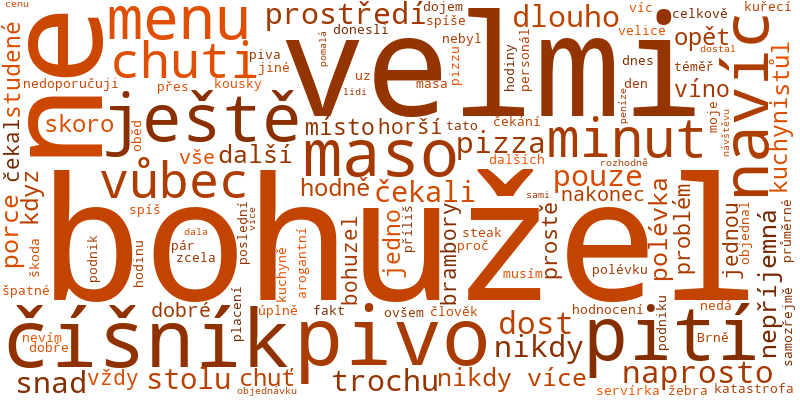
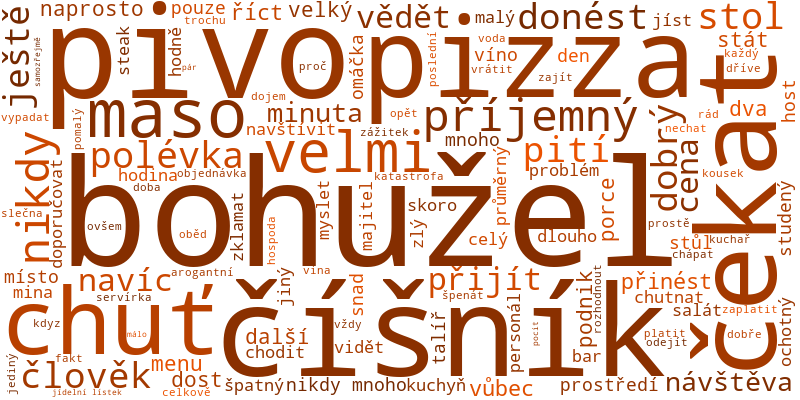
added wordclouds for presentations

diff --git a/wordcloud_nltk.py b/wordcloud_nltk.py
@@ -39,7 +39,7 @@ prepositions = ["od","ke","z","s","do","bez","krom","kromě","podle","okolo","ve
 conjunctions = ["a", "i", "ani", "nebo", "či", "přímo", "nadto", "ani", "jak", "tak", "hned", "jednak", "zčásti", "dílem", "ale", "avšak", "však", "leč", "nýbrž", "naopak", "jenomže", "jenže", "sice", "jistě", "ale", "i", "ba", "ba i", "ba ani", "nadto", "dokonce", "nejen", "nebo", "anebo", "buď", "totiž", "vždyť", "neboť", "vždyť", "totiž", "však", "také", "proto", "a proto", "a tak", "tudíž", "a tudíž", "tedy"]
 pronouns = ["já", "ty", "on", "ona", "ono", "my", "vy", "oni", "ony", "ona","se", "můj", "tvůj", "jeho", "její", "náš", "váš", "svůj", "ten", "tento", "tenhle", "onen", "takový", "týž", "tentýž", "sám", "kdo", "co", "jaký", "který","čí", "jenž", "nikdo", "nic", "nijaký", "ničí", "žádný", "někdo", "nějaký", "některý", "lecco", "něčí", "něco"]
 verbs = ["být","bejt","jsem","sme","jsi","je","jest","jsme","jste","jsou","budu","budeš","bude","budeme","budete","budou","buď","budiž","buďme","buďmež","buďte","buďtež","byl","byla","bylo","byli","byly","jsa","jsouc","jsouce","byv","byvše","byvši","bych","bychom","nebyla","nebylo","nam","vás","vas","chtěli","chteli","dali","bys","byste","by", "seš", "mám","máš","má","máme","máte","mají","měj","mějme","mějte","měl","měla","mělo","měli","měly","maje","majíc","majíce"]
-another_specific = ["jít","muset","jeden","druhý","moct","opravdu","všechen","mít","moc","dostat","dal","chtít","dát","si","cca","dne","jen","mi","mě","tady","tomu","že","to","nám","ná","takže","jako","už","pokud","asi","celkem","docela","tam","ze","ve","ji","ta","pak","taky","což","tím","již","možná","která","toho","protože","sem","kde","která","které","tu","než","když","Kč","při","až","ho","této","mne","aby","tuto","tom","No","kdy","jejich","jinak","zde","kterou","toto","ní","nás","mu","dostali","objednali","jím","myslím","jim","Já","Jen","námi","mě","me","Na","Po","není",")","(",".",",",":","!","...","-","?"]
+another_specific = ["jít","přes","muset","jeden","druhý","moct","opravdu","všechen","mít","moc","dostat","dal","chtít","dát","si","cca","dne","jen","mi","mě","tady","tomu","že","to","nám","ná","takže","jako","už","pokud","asi","celkem","docela","tam","ze","ve","ji","ta","pak","taky","což","tím","již","možná","která","toho","protože","sem","kde","která","které","tu","než","když","Kč","při","až","ho","této","mne","aby","tuto","tom","No","kdy","jejich","jinak","zde","kterou","toto","ní","nás","mu","dostali","objednali","jím","myslím","jim","Já","Jen","námi","mě","me","Na","Po","není",")","(",".",",",":","!","...","-","?"]
 text_specific_stopwords = ["jídlo","jídla","jidlo","jidla","jídel","jídlu","obsluha","obsluhy","obsluhu","restaurace","restauraci","objednat"]
 
 #STOPWORDS WITHOUT DIACRITICS LOWERCASE
@@ -75,13 +75,13 @@ def wordcloud_to_file(list_of_text,file):
     reviews_dict = {"review" : list_of_text}
     df = pd.DataFrame(reviews_dict)
     text = " ".join(review for review in df.review) #recenze
-    wordcloud = WordCloud(width=800, height=400,color_func=wordcloud_color, stopwords=stopwords_cz, max_words=120, background_color="white").generate(text)
+    wordcloud = WordCloud(width=800, height=400,color_func=wordcloud_color, stopwords=stopwords_cz, max_words=50, background_color="white").generate(text)
     wordcloud.to_file("img\\" + file)
 
 #LEMMATIZOVANÉ REVIEWS
 path_to_lemmata_xlsx = sys.argv[1]
 workbook = xlrd.open_workbook(path_to_lemmata_xlsx, 'rb')
-# Andy -> C:\\DA\\ProjectDA\\Excel\\lemmata_reviews.xlsx
+# Andy -> C:\DA\ProjectDA\Excel\lemmata_reviews.xlsx
 
 sheet = workbook.sheet_by_index(0)
 rows = []
@@ -106,13 +106,15 @@ for i in rows[1:]:
 
 color = 60
 #wordcloud_to_file(reviews_all,"all_reviews.png")
-wordcloud_to_file(lemma_reviews_all,"lemma_all_reviews.png")
+#wordcloud_to_file(lemma_reviews_all,"lemma_all_reviews.png")
 color = 140
 #wordcloud_to_file(positive_reviews,"positive_reviews.png")
-wordcloud_to_file(lemma_positive_reviews,"lemma_positive_reviews.png")
+#wordcloud_to_file(lemma_positive_reviews,"lemma_positive_reviews.png")
+wordcloud_to_file(lemma_positive_reviews,"wordcloud_positive_presentation.png")
 color = 21
 #wordcloud_to_file(negative_reviews,"negative_reviews.png")
-wordcloud_to_file(lemma_negative_reviews,"lemma_negative_reviews.png")
+#wordcloud_to_file(lemma_negative_reviews,"lemma_negative_reviews.png")
+wordcloud_to_file(lemma_negative_reviews,"wordcloud_negative_presentation.png")
 
 
 #KNIHOVNA NLTK
